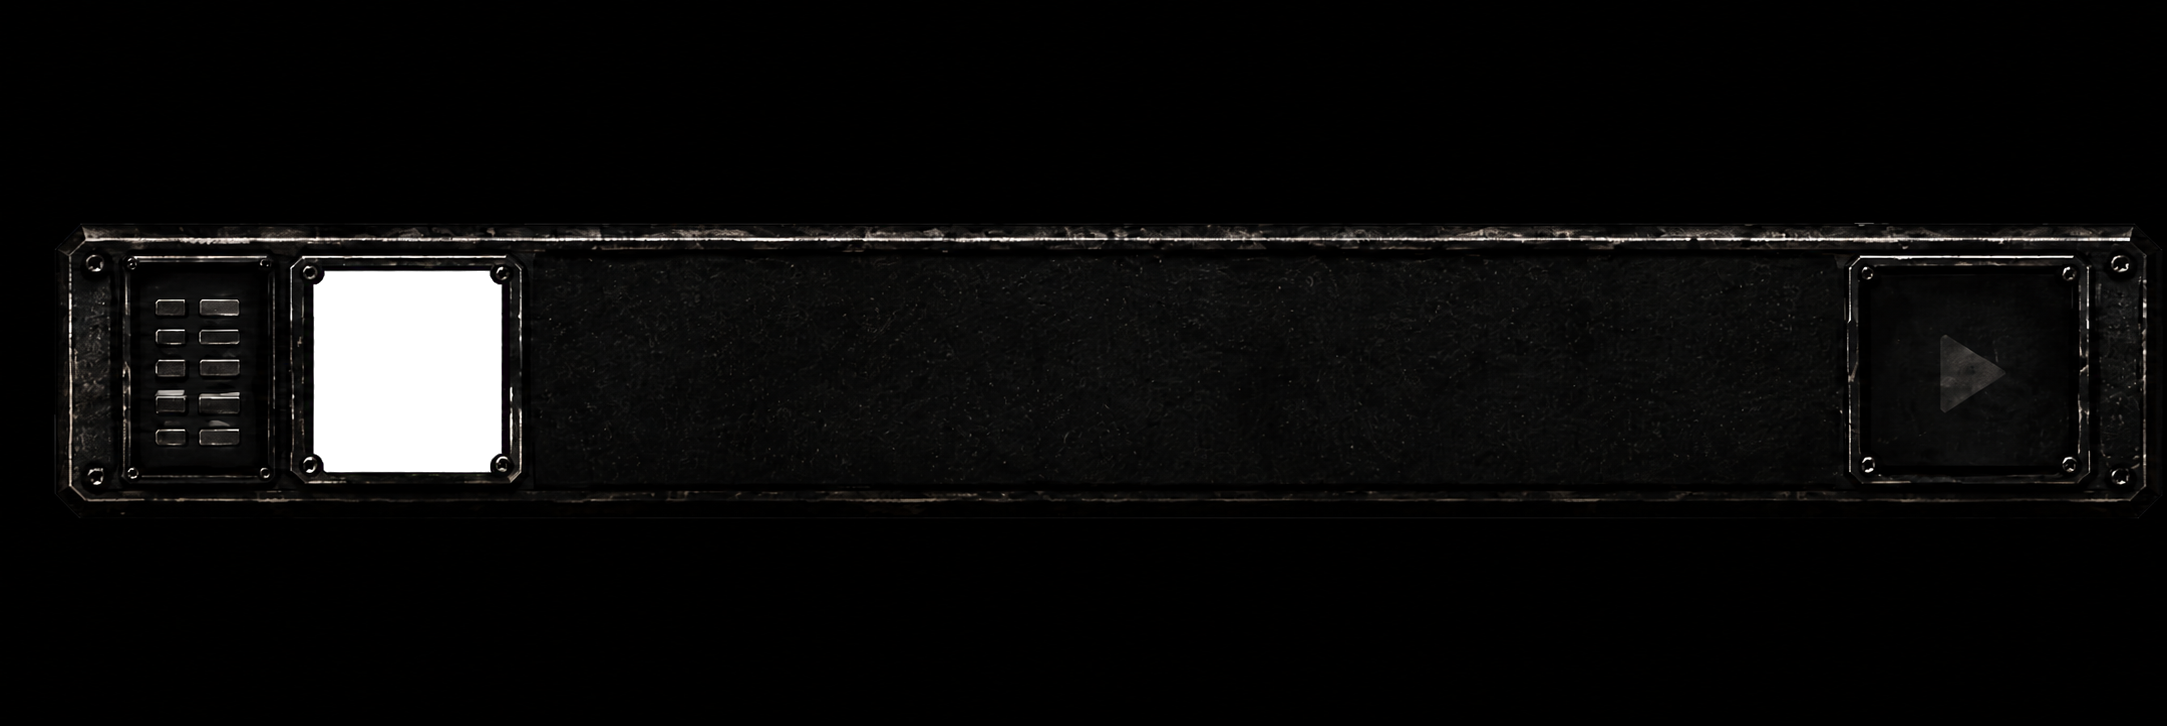
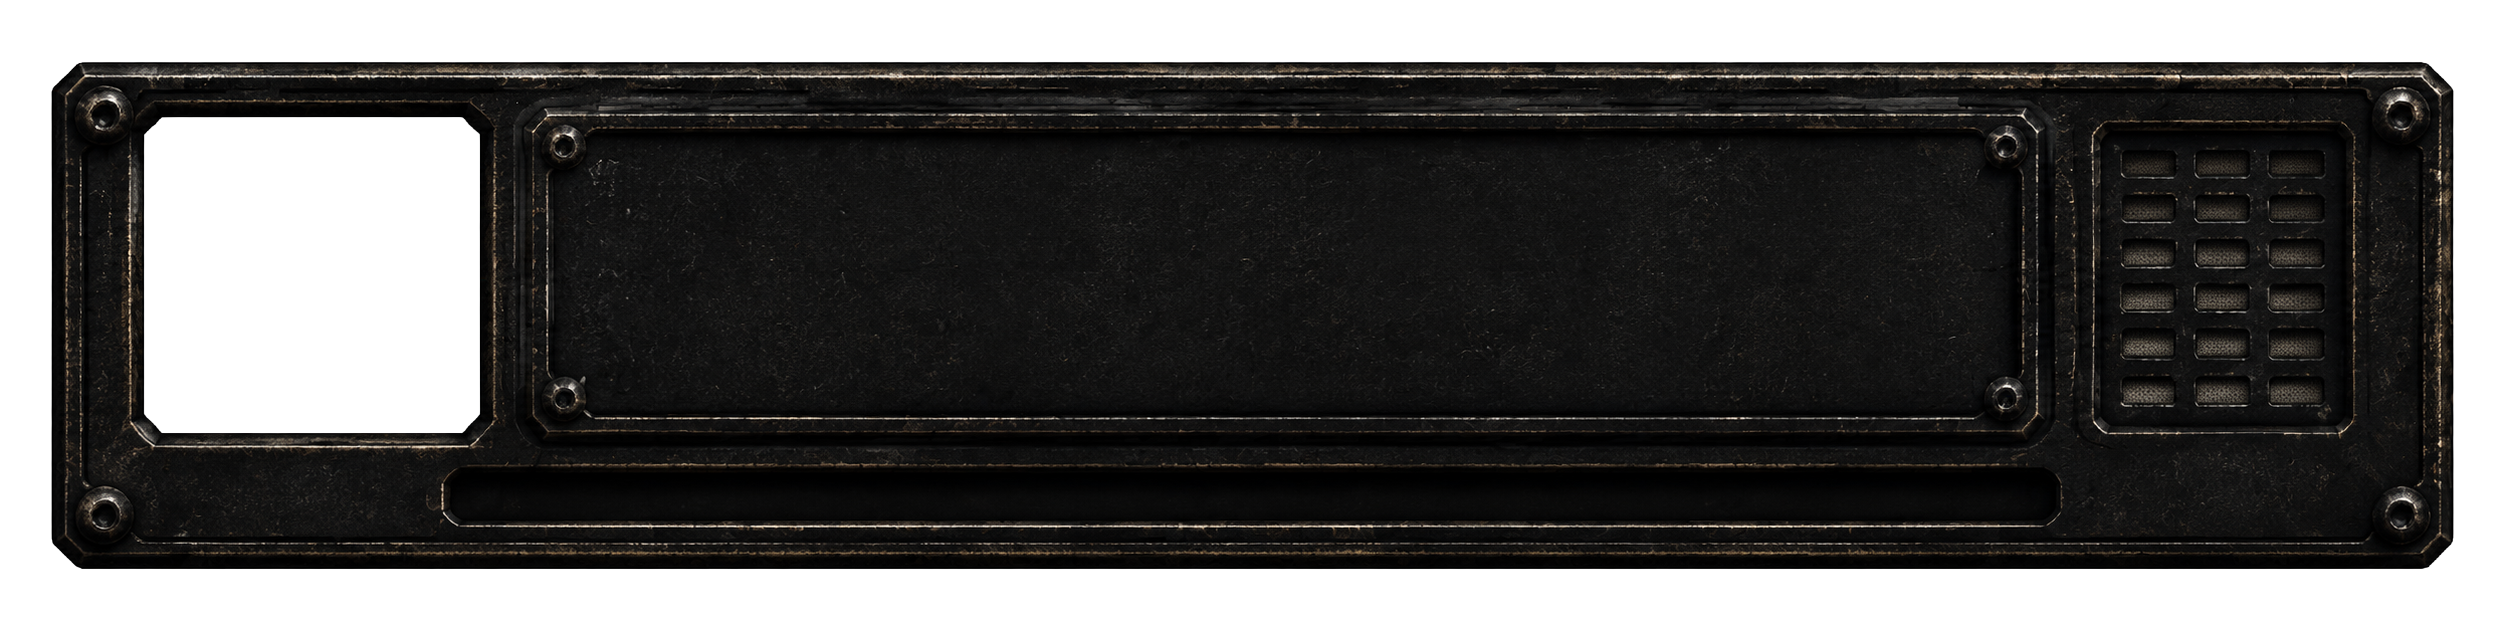
Refine console assets and playback behavior

diff --git a/src/layouts/pocket-filth.css b/src/layouts/pocket-filth.css
@@ -27,6 +27,18 @@
   user-select: none;
 }
 
+.pocketHeaderPlate {
+  position: absolute;
+  z-index: 11;
+  left: 17.65%;
+  top: 0.48%;
+  width: 80.65%;
+  height: auto;
+  display: block;
+  pointer-events: none;
+  user-select: none;
+}
+
 .pocketFrequency {
   position: absolute;
   z-index: 12;
@@ -234,21 +246,21 @@
 .pocketEnvironmentReadout strong { color: #b5aa61; font-weight: 800; }
 .pocketWarning { position: absolute; z-index: 12; left: 18.5%; top: 93.2%; width: 43.5%; height: 3.8%; display: flex; align-items: center; justify-content: center; box-sizing: border-box; padding: 0 4%; overflow: hidden; color: #c7a04d; font-size: clamp(8px, 2.25vw, 17px); font-weight: 800; line-height: 1.05; text-align: center; text-transform: uppercase; }
 
-.pocketLibraryDrawer { position: fixed; z-index: 500; inset: 0; display: grid; place-items: end center; background: rgba(0, 0, 0, 0); pointer-events: none; transform: translateY(105%); transition: transform 420ms cubic-bezier(0.2, 0.8, 0.25, 1), background 260ms ease; }
+.pocketLibraryDrawer { position: fixed; z-index: 500; inset: 0; display: grid; place-items: center; background: rgba(0, 0, 0, 0); pointer-events: none; transform: translateY(105%); transition: transform 420ms cubic-bezier(0.2, 0.8, 0.25, 1), background 260ms ease; }
 .pocketLibraryDrawer.open { pointer-events: auto; transform: translateY(0); background: rgba(0, 0, 0, 0.72); }
 .pocketLibraryStage { position: relative; width: min(100vw, calc(100dvh * 0.5628)); aspect-ratio: 1188 / 1324; overflow: hidden; }
 .pocketLibraryList { position: absolute; z-index: 3; left: 6.7%; top: 25.1%; width: 87.6%; height: 67.5%; display: grid; grid-template-rows: repeat(6, minmax(0, 1fr)); align-content: start; gap: 0.8%; overflow: hidden; background: #030403; }
-.pocketTrackRow { position: relative; min-height: 0; overflow: hidden; background: #040504; cursor: pointer; }
+.pocketTrackRow { position: relative; width: 100%; min-height: 0; overflow: hidden; background: #040504; cursor: pointer; }
 .pocketTrackRow:focus-visible { outline: 1px solid rgba(192, 151, 64, 0.9); outline-offset: -2px; }
-.pocketTrackShell { position: absolute; z-index: 3; inset: 0; width: 100%; height: 100%; object-fit: cover; pointer-events: none; }
-.pocketTrackCover { position: absolute; z-index: 1; left: 13.8%; top: 14%; width: 10%; height: 72%; object-fit: cover; }
-.pocketTrackSelect { position: absolute; z-index: 5; left: 24%; top: 10%; width: 61%; height: 80%; display: flex; flex-direction: column; justify-content: center; border: 0; background: transparent; color: #cabb78; text-align: left; pointer-events: none; }
+.pocketTrackShell { position: absolute; z-index: 3; inset: 0; width: 100%; height: 100%; object-fit: fill; pointer-events: none; }
+.pocketTrackCover { position: absolute; z-index: 1; left: 5.8%; top: 19%; width: 13.4%; height: 51%; object-fit: cover; }
+.pocketTrackSelect { position: absolute; z-index: 5; left: 21%; top: 17%; width: 59.5%; height: 54%; display: flex; flex-direction: column; justify-content: center; border: 0; background: transparent; color: #cabb78; text-align: left; pointer-events: none; }
 .pocketTrackSelect b,
 .pocketTrackSelect span { display: block; overflow: hidden; text-overflow: ellipsis; white-space: nowrap; }
 .pocketTrackSelect b { font-size: clamp(10px, 3.4vw, 23px); }
 .pocketTrackSelect span { color: #8e9461; font-size: clamp(8px, 2.5vw, 17px); }
 .pocketTrackPlay { position: absolute; z-index: 7; right: 2.6%; top: 12%; width: 10.5%; height: 76%; border: 0; background: transparent; pointer-events: none; }
-.pocketTrackLamp { position: absolute; z-index: 6; left: 4.65%; top: 27%; width: 4.7%; height: 46%; display: grid; grid-template-columns: repeat(2, 1fr); grid-template-rows: repeat(6, 1fr); grid-auto-flow: column; gap: 13% 20%; opacity: 0.88; pointer-events: none; }
+.pocketTrackLamp { position: absolute; z-index: 6; left: 84.25%; top: 20%; width: 9.25%; height: 49%; display: grid; grid-template-columns: repeat(3, 1fr); grid-template-rows: repeat(6, 1fr); grid-auto-flow: column; gap: 10% 14%; opacity: 0.88; pointer-events: none; }
 .pocketTrackLamp i { min-width: 0; min-height: 0; border-radius: 16%; background: #bd872c; box-shadow: inset 0 0 2px rgba(245, 192, 72, 0.7), 0 0 3px rgba(216, 151, 39, 0.45); animation: pocketSoftPulse 3.4s ease-in-out calc(var(--i) * -95ms) infinite; }
 .pocketTrackRow.active { filter: brightness(1.2); }
 

diff --git a/src/layouts/PocketFilthScanner.jsx b/src/layouts/PocketFilthScanner.jsx
@@ -1,4 +1,4 @@
-import React, { useEffect, useRef, useState } from 'react';
+import React, { useEffect, useState } from 'react';
 import { Pause, Play, Share2, Shuffle, SkipBack, SkipForward } from 'lucide-react';
 import { cautionMessages } from '../data/cautionMessages';
 import './pocket-filth.css';
@@ -45,17 +45,8 @@ export default function PocketFilthScanner({
     () => ENVIRONMENT_STATUSES[Math.floor(Math.random() * ENVIRONMENT_STATUSES.length)],
   );
   const [signalStability, setSignalStability] = useState(() => 82 + Math.floor(Math.random() * 16));
-  const librarySearchRef = useRef(null);
-
   useEffect(() => {
     if (!libraryOpen) setPlaylistMenuOpen(false);
-    if (!libraryOpen) return undefined;
-
-    const frame = window.requestAnimationFrame(() => {
-      librarySearchRef.current?.focus();
-      librarySearchRef.current?.select();
-    });
-    return () => window.cancelAnimationFrame(frame);
   }, [libraryOpen]);
 
   useEffect(() => {
@@ -136,10 +127,7 @@ export default function PocketFilthScanner({
         <button
           className="pocketLibraryOpen"
           type="button"
-          onClick={() => {
-            setLibraryOpen(true);
-            librarySearchRef.current?.focus({ preventScroll: true });
-          }}
+          onClick={() => setLibraryOpen(true)}
           aria-label="Open containment library"
         >
           <span>CONTAINMENT LIBRARY</span>
@@ -270,6 +258,7 @@ export default function PocketFilthScanner({
         <div className="pocketWarning" aria-live="polite">{cautionMessages[warningIndex] || ''}</div>
 
         <img className="pocketShell" src={`${BASE}images/mobile/pocket-filth-shell-v2.png`} alt="" />
+        <img className="pocketHeaderPlate" src={`${BASE}images/mobile/pocket-filth-header.png`} alt="" />
 
         <audio
           ref={audioRef}
@@ -346,7 +335,7 @@ export default function PocketFilthScanner({
                 </div>
                 <div className="pocketTrackPlay" aria-hidden="true" />
                 <div className="pocketTrackLamp" aria-hidden="true">
-                  {Array.from({ length: 12 }, (_, index) => <i key={index} style={{ '--i': index }} />)}
+                  {Array.from({ length: 18 }, (_, index) => <i key={index} style={{ '--i': index }} />)}
                 </div>
                 <img className="pocketTrackShell" src={`${BASE}images/mobile/pocket-filth-track-row.png`} alt="" />
               </div>
@@ -355,7 +344,6 @@ export default function PocketFilthScanner({
           </div>
 
           <input
-            ref={librarySearchRef}
             className="pocketLibrarySearch"
             value={query}
             onChange={(event) => {

diff --git a/src/layouts/full-console-shell.css b/src/layouts/full-console-shell.css
@@ -214,6 +214,40 @@
 
 .consoleStankPanel {
   z-index: 5;
+  overflow: hidden;
+  pointer-events: none;
+}
+
+.consoleStankPanel > img {
+  position: absolute;
+  inset: 0;
+  width: 100%;
+  height: 100%;
+  display: block;
+  object-fit: fill;
+}
+
+.stankPanelStatusLights {
+  position: absolute;
+  inset: 0;
+  z-index: 2;
+  pointer-events: none;
+}
+
+.stankPanelStatusLights i {
+  position: absolute;
+  left: var(--stank-panel-lamp-left);
+  top: 44%;
+  width: 4.5%;
+  height: 56%;
+  display: block;
+  border-radius: 14%;
+  background: radial-gradient(ellipse at 44% 31%, rgba(229, 255, 153, 0.98) 0%, rgba(121, 197, 47, 0.96) 35%, rgba(48, 112, 16, 0.96) 70%, rgba(14, 47, 7, 0.98) 100%);
+  box-shadow: 0 0 4px rgba(137, 221, 55, 0.68), 0 0 9px rgba(75, 164, 25, 0.42), inset 0 1px 2px rgba(235, 255, 187, 0.58), inset 0 -2px 2px rgba(15, 50, 7, 0.82);
+  mix-blend-mode: screen;
+  transform: translate(-50%, -50%);
+  animation: consoleGreenPulse 2.65s ease-in-out infinite;
+  animation-delay: var(--stank-panel-lamp-delay);
 }
 
 .consolePanelAsset {
@@ -258,7 +292,7 @@
 }
 
 .liveContainmentLight--master {
-  left: 6.1%;
+  left: 3.55%;
   top: 22.1%;
   width: 7.4%;
   height: 13.8%;
@@ -266,7 +300,7 @@
 }
 
 .liveContainmentLight--tx {
-  left: 8.65%;
+  left: 6.1%;
   top: 70.9%;
   width: 4.5%;
   height: 8.2%;
@@ -665,6 +699,10 @@
   color: #789a59;
   font-size: clamp(5px, 0.42vw, 11px);
   letter-spacing: 0.13em;
+}
+
+.consoleTrackData small.isEmpty {
+  visibility: hidden;
 }
 
 .consoleTrackData h1 {

diff --git a/src/layouts/FullConsoleShell.jsx b/src/layouts/FullConsoleShell.jsx
@@ -488,13 +488,27 @@ export default function FullConsoleShell({
           draggable={false}
         />
 
-        <img
+        <div
           className="consoleOverlay consoleStankPanel"
-          src={stankPanelImage}
-          alt="Stank Radio"
-          draggable={false}
+          aria-label="Stank Radio"
           {...layoutProps('stankPanel')}
-        />
+        >
+          <img src={stankPanelImage} alt="" draggable={false} />
+
+          <div className="stankPanelStatusLights" aria-hidden="true">
+            {[10.5, 16.8, 24.1, 31.3, 38.2, 45.7, 51.2, 57.9, 64.8, 71.7, 78].map(
+              (left, index) => (
+                <i
+                  key={left}
+                  style={{
+                    '--stank-panel-lamp-left': `${left}%`,
+                    '--stank-panel-lamp-delay': `${index * -110}ms`,
+                  }}
+                />
+              ),
+            )}
+          </div>
+        </div>
 
         {auxiliaryPanels.map((panel) => (
           <div
@@ -654,7 +668,7 @@ export default function FullConsoleShell({
           aria-label="Current transmission"
           {...layoutProps('trackData')}
         >
-          <small>
+          <small className={!activeTrack ? 'isEmpty' : undefined}>
             {playing
               ? 'LEAK STATUS // ACTIVE'
               : activeTrack

diff --git a/src/main.jsx b/src/main.jsx
@@ -85,7 +85,7 @@ function assetPath(path) {
   if (path.startsWith('http')) return path;
   if (path.startsWith(BASE)) return path;
   if (path.startsWith('/stank-radio/')) return path;
-  if (path.startsWith('/music/')) return `${BASE}${path.slice(1)}`;
+  if (path.startsWith('/music/')) return path;
   if (path.startsWith('/')) return `${BASE}${path.slice(1)}`;
   if (path.startsWith('music/') || path.startsWith('images/')) return `${BASE}${path}`;
   return `${BASE}music/${path}`;
@@ -391,11 +391,15 @@ function App() {
 
   function randomTrack() {
     if (!visibleTracks.length) return;
+
+    const currentIndex = playbackIndex >= 0 ? playbackIndex : activeIndex;
     let nextIndex = Math.floor(Math.random() * visibleTracks.length);
-    if (visibleTracks.length > 1 && nextIndex === activeIndex) {
+
+    if (visibleTracks.length > 1 && nextIndex === currentIndex) {
       nextIndex = (nextIndex + 1) % visibleTracks.length;
     }
-    selectTrack(visibleTracks[nextIndex], false);
+
+    selectTrack(visibleTracks[nextIndex], true);
   }
 
   function togglePlay() {
